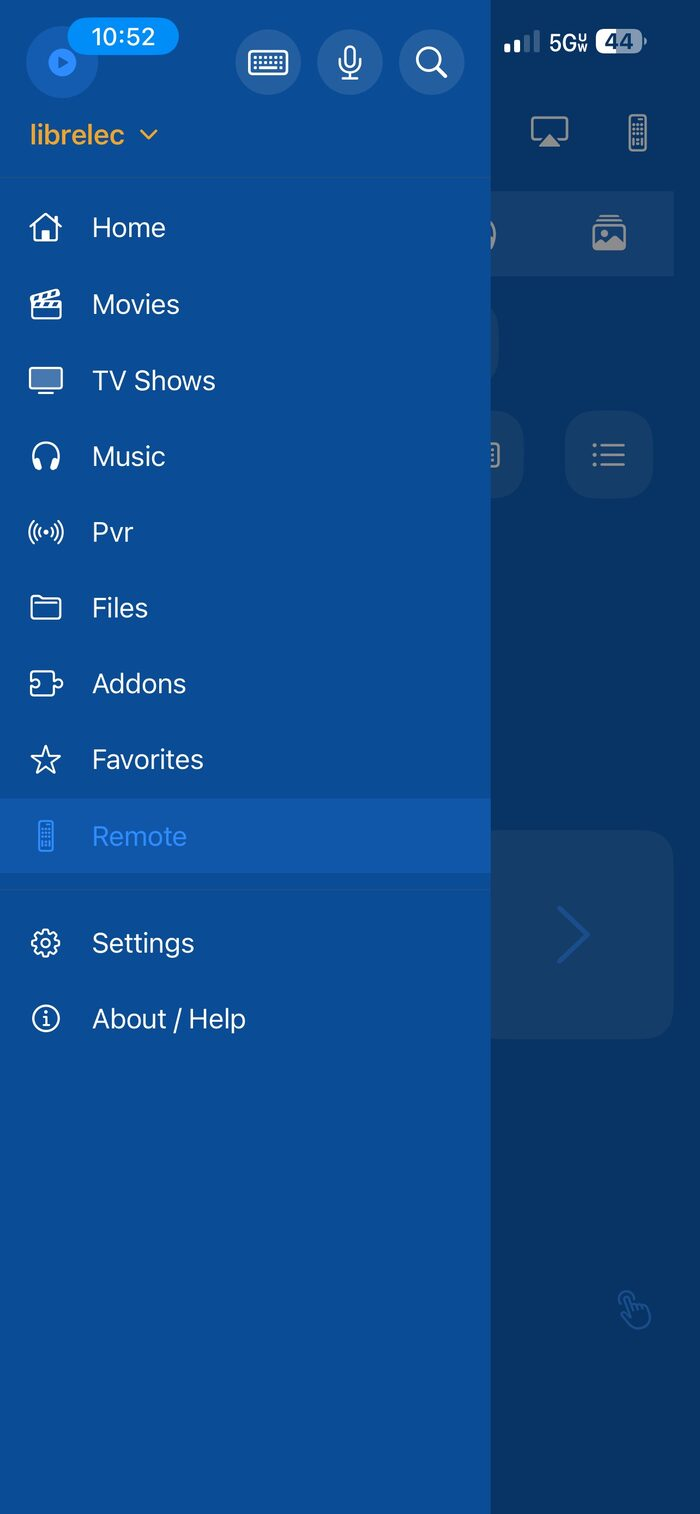
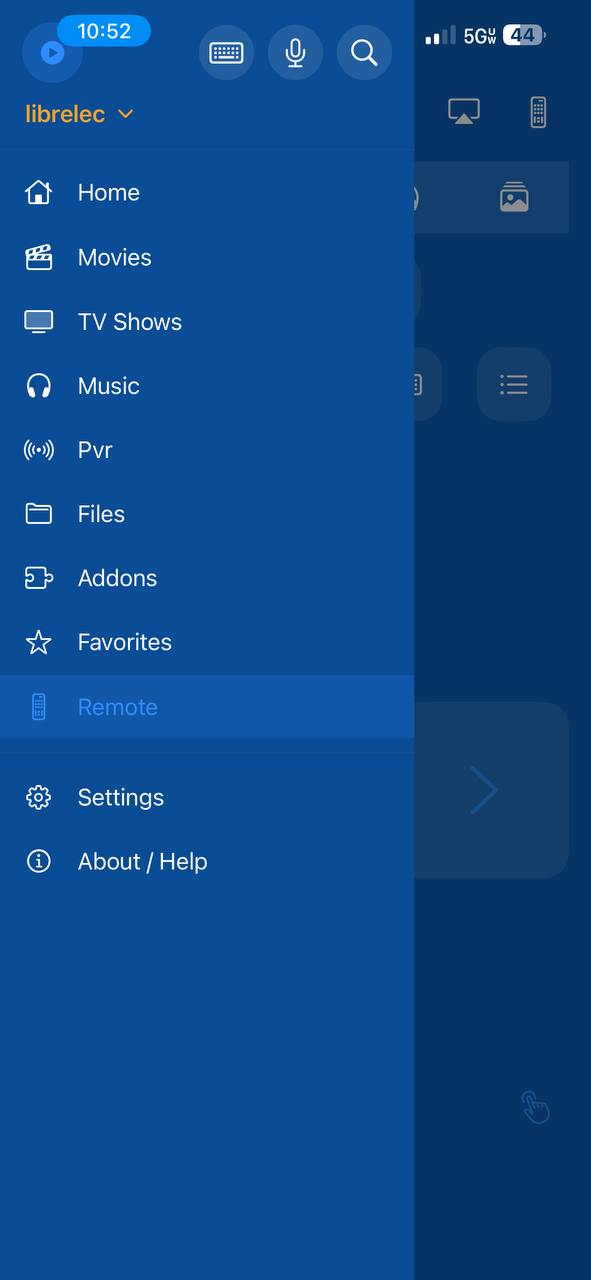
docs: bring the README up to date, and frame the screenshots (#23)
* docs: bring the README up to date, and frame the screenshots

The feature list had drifted from the app: the browse screens are no longer
a mix of two-column grids and lists, the star is gone, favouriting is
long-press only, a browse screen carries a Remote button, and launch
reconnects to the last host.

The screenshots are laid out as a bordered pair with captions rather than
two full-width images stacked, which is both the ask and the reason the
page no longer scrolls past a screenful of image before the feature table.

Their source files stay 700px wide on purpose: that is 2x a ~340pt display
width, so setting the display width gives a crisp retina image. Resizing
the files down would only soften them.

* docs: frame the screenshots in the files, and finish the feature list

The screenshots are re-sent from the device and now framed: rounded corners, a
hairline border and a soft shadow, on transparency. The frame is baked into the
PNGs rather than set in CSS because GitHub strips inline `style=` from README
HTML — checked by rendering this README through `gh api /markdown`, where a
`style="border-radius:…"` came back as `style="max-width:100%"`. `align` and
`width` attributes do survive, which is how the pair sits side by side.

`docs/screenshots/*.jpg` stay as the raw masters (GitHub's copies are
recompressed, so the master is what a re-frame needs) and the framed PNGs are
what the page shows. `scripts/frame-screenshots.sh` is the transform, since the
[…]

diff --git a/README.md b/README.md
@@ -10,28 +10,16 @@
 — an unsigned IPA you re-sign with your own Apple ID. No developer account, no
 App Store, every feature unlocked.
 
-> ## Unofficial — a personal build
->
-> This is **not an official app**, and not an official build of anything. It is one
-> person's project: no company, foundation or upstream project stands behind it, and
-> nobody distributes it but this repository. Every build carries that in its release
-> notes and shows it in the app under **About / Help**.
->
-> It is **not affiliated with, authorised by, sponsored by or endorsed by**:
->
-> - **Team Kodi / the XBMC Foundation.** This is an independent client that speaks
->   Kodi's public JSON-RPC API. No Kodi code, iconography or artwork is included. The
->   Kodi project does not support this app, and bug reports do not belong with them.
-> - **Yatse or its author.** The Android app was studied to learn the *protocol*; its
->   name is used only to say what this was specified from. This is not a port, a fork
->   or a re-release of Yatse, and it contains none of its code, strings or artwork.
-> - **Apple.** No developer account is involved anywhere: the IPA is unsigned and is
->   re-signed on your own device with your own Apple ID.
->
-> "Kodi", "XBMC" and "Yatse" are the trademarks of their respective owners, used here
-> descriptively to say what this app talks to and what it was written against — with
-> no claim to them. If a rights holder objects to any use in this repo, open an issue
-> and it will be changed.
+A Kodi remote for your pocket: it finds your box, remembers it, and hands you the
+library, the playback controls and the remote itself. No account, no server in the
+middle, nothing held back.
+
+> **Unofficial, personal build — not affiliated with Team Kodi, Yatse or Apple.**
+> One person's project: no company, foundation or upstream project stands behind it,
+> and nobody distributes it but this repository. Every build says so in its release
+> notes and in the app under **About / Help**. It contains no Kodi or Yatse code,
+> strings or artwork, and no developer account is involved anywhere — the full
+> statement is under [Trademarks and affiliation](#trademarks-and-affiliation).
 
 A from-scratch SwiftUI remote for Kodi, written against a specification
 reverse-engineered from the **Yatse 12.0.0** Android APK. Clean-room: the
@@ -39,27 +27,31 @@ protocol surface (method names, parameter properties, discovery records, default
 ports) came from static analysis of the shipped artifact; the Swift here is
 original code written from that spec and the public Kodi JSON-RPC v13 docs.
 
-The full reverse-engineering report lives outside this repo with the APK:
-
-```
-~/reverseEngineer/yatse/REPORT.md      # findings, evidence IDs, method tables
-~/reverseEngineer/yatse/probe-evidence.txt   # live Kodi 21.3 payload validation
-```
-
-See [`docs/CLEANROOM.md`](docs/CLEANROOM.md) for what was and was not taken.
-
 ## Screenshots
 
-The Remote. The drawer control stays pinned top-left, including on the screens
-pushed inside a destination, so you can leave a folder for the Remote without
-first going back to the top:
+<table>
+  <tr>
+    <td align="center" width="50%">
+      <a href="docs/screenshots/remote-framed.png"><img src="docs/screenshots/remote-framed.png" width="320" alt="The Remote screen"></a>
+    </td>
+    <td align="center" width="50%">
+      <a href="docs/screenshots/drawer-framed.png"><img src="docs/screenshots/drawer-framed.png" width="320" alt="The drawer open"></a>
+    </td>
+  </tr>
+  <tr>
+    <td align="center"><sub><b>The Remote</b><br>One screen, no tabs: status, shortcuts, volume, the d-pad, and a bare Back arrow.</sub></td>
+    <td align="center"><sub><b>The drawer</b><br>Every destination, with a host header and a switcher. Favorites lives here.</sub></td>
+  </tr>
+</table>
 
-![The Remote screen](docs/screenshots/remote.jpg)
+Tap either one for the full-size image. The pair is side by side rather than stacked
+so the first screenful of this page is still the pitch and the feature list, not two
+full-width phone screenshots.
 
-The drawer. Favorites is a destination, and each destination remembers the place
-you last reached inside it for the session:
-
-![The drawer open](docs/screenshots/drawer.jpg)
+The drawer control stays pinned top-left on the screens pushed inside a destination,
+so you can leave a folder for the Remote without first going back to the top — and
+every browse screen now carries a Remote button of its own, in the toolbar next to the
+layout control.
 
 ## What it does
 
@@ -67,15 +59,20 @@ you last reached inside it for the session:
 |---|---|
 | Hosts | add / edit / delete, Basic auth, password in Keychain, HTTP or HTTPS, Wake-on-LAN (MAC + port) |
 | Discovery | Bonjour `_xbmc-jsonrpc-h._tcp` / `_xbmc-jsonrpc._tcp` |
+| Launch | reconnects to the last host you used; if it has gone or does not answer, the picker comes back with the reason |
 | Now playing | full-screen overlay opened from the mini-player: see-through artwork backdrop, a seek slider with elapsed/duration, and Info |
-| Transport | previous / rewind / play-pause / forward / next / stop in the Now Playing overlay; back, fullscreen, info, keyboard and context tiles on the remote |
+| Transport | previous / rewind / play-pause / forward / next / stop in the Now Playing overlay; fullscreen, info, keyboard and menu tiles on the remote; while a video plays fullscreen the arrow keys seek, and Kodi escalates the jump on its own — 10s → 30s → 1min → 3min → 5min |
 | Streams | audio-stream and subtitle pickers (including subtitles off) and a video-zoom control, in the Now Playing overlay |
-| Shell | host-centric: slide-out drawer (Home, Movies, TV Shows, Music, Pvr, Files, Addons, Favorites, Remote, then Settings and About) with a host header and switcher, and a persistent mini-player while a player is active |
-| Remote | one screen (no tabs): pinned status, shortcut, volume and utility tile rows; a directional pad that fills the screen below them (accent arrows, outlined select), a bare Back control and a touchpad toggle; keyboard text entry; the current item's artwork as a blurred background with translucent tiles while playing |
+| Shell | host-centric: slide-out drawer (Home, Movies, TV Shows, Music, Pvr, Files, Addons, Favorites, Remote, then Settings and About) with a host header and switcher, a persistent mini-player while a player is active, and a Remote button on every browse screen's toolbar |
+| Remote | one screen (no tabs): pinned status, shortcut, volume and utility tile rows; a directional pad that fills the screen below them (accent arrows, outlined select), a bare Back control and a touchpad toggle; keyboard text entry; the current item's artwork as a blurred background with translucent tiles while playing; during fullscreen playback the pad's centre press raises Kodi's on-screen controls instead of selecting |
+| Player info | the far-left utility tile asks Kodi for its process overlay — resolution, video and audio codec, hardware or software decoding — and asks again to close it |
+| Touchpad | swipe to move, tap to select: how far and how fast you swipe decides how far Kodi moves, up to 8 steps from one gesture |
+| Gestures | pull up on the playback bar to open the full player, pull down on it to close; a sideways drag does neither, because that bar is made of buttons you drag across; long press a tile or row to save it as a favourite |
 | Queue | playlist jump / remove / clear, shown in the Now Playing overlay |
-| Library | Movies and TV Shows as a two-column poster grid; Artists → Albums and Episodes as lists; paged at 60 rows, tap to play |
-| Addons | video add-ons only, as a two-column poster grid; tapping one browses the content it exposes on the host, also as a grid; long-press to enable/disable it or save it as a favourite |
-| Favorites | saved places as a two-column poster grid carrying their artwork; saved by long-pressing a folder inside a video add-on, removed by long-pressing the tile |
+| Library | Movies and TV Shows, Artists → Albums, and a show's episodes; paged at 60 rows, tap to play |
+| Layout | one app-wide setting — **2-wide grid, the default**, or 3-wide, 4-wide and a list — switched from any browse screen's toolbar and remembered across launches |
+| Addons | video add-ons only; tapping one browses the content it exposes on the host; long-press to enable/disable it or save it as a favourite |
+| Favorites | saved places carrying their artwork; added and removed by long press only, on a show, artist, add-on, folder or Files source |
 | Status | connection state, server name + version, in-app error surface |
 | Self-check | ordered, read-only, per-layer connection diagnostic with a copyable redacted report and persisted per-host status |
 
@@ -84,14 +81,17 @@ you last reached inside it for the session:
 The app is host-centric. Before a host is chosen it shows the host picker; once
 one is active the root becomes a shell scoped to that host, and player state is
 owned by an app-level `Session` (not by a screen), so playback and the live event
-stream survive moving between destinations.
+stream survive moving between destinations. **At launch it reconnects to the last
+host you used**, so opening the app puts you straight back in the shell for your box
+rather than at a list you have to read.
 
 - **Drawer** — a slide-over list with a host header (name, switcher, keyboard /
   mic / search actions) and the destinations above, Favorites among them.
   Selecting the current host again is a no-op; deleting the active host returns
   the app to the picker. **Each destination remembers the place you last reached
   inside it** for the session, so leaving Addons for the Remote and coming back
-  restores that folder rather than resetting to the top.
+  restores that folder rather than resetting to the top — and a long list also comes
+  back at the row you had scrolled to.
 - **Mini-player** — pinned above every destination while a player is active, with
   a thumbnail, the title, and stop / play-pause / next. Tapping it opens the
   Now Playing overlay.
@@ -100,22 +100,36 @@ stream survive moving between destinations.
   play-pause / forward / next / stop, repeat and shuffle, Info, audio and subtitle
   pickers (subtitles can be turned off), a video-zoom control, and the queue.
 - **Remote** — a single screen with no tabs that does not scroll: the app bar, the
-  shortcut strip (Home, Movies, TV Shows, Music, Pictures), volume and utility
-  tiles, then a directional pad that fills every point left on the screen, with a
-  bare Back arrow and a touchpad toggle beneath it. While something plays, the
-  item's artwork is the blurred background and the tiles turn translucent.
-- **Library** — Movies and TV Shows browse as a two-column poster grid; Artists
-  and Albums, and a show's episodes, browse as lists.
+  shortcut strip (Home, Movies, TV Shows, Music, Pictures), the volume tiles, the
+  utility row (player info, fullscreen, info, keyboard, menu), then a directional pad
+  that fills every point left on the screen, with a bare Back arrow and a touchpad
+  toggle beneath it. While something plays, the item's artwork is the blurred
+  background and the tiles turn translucent. **While a video plays fullscreen the pad
+  changes job**: the arrows seek, and the centre press raises Kodi's on-screen
+  controls, because that is what a video wants — moving a highlight is for menus.
+  The far-left utility tile is the player-info overlay (resolution, codecs, and
+  whether decoding is hardware or software); inside fullscreen playback it is what
+  you reach for instead of guessing why a file stutters.
+- **Library** — Movies and TV Shows, Artists → Albums, and a show's episodes.
+- **Layout** — one app-wide setting rather than a per-screen one, because these are
+  all the same kind of screen: **2-wide grid (the default)**, 3-wide, 4-wide, or a
+  list. It is switched from the toolbar of any browse screen, applies to every one
+  of them, and is remembered across launches. Tiles give up their detail line as they
+  get denser, so four across stays readable.
 - **Addons** — the video add-ons installed on the host, as a poster grid. Tapping
   one browses the content it exposes at `plugin://<addonid>/`, presented the same
-  way (add-on content is a grid, a filesystem folder stays a list). A long press
-  offers enabling/disabling the add-on and saving it as a favourite.
-- **Favorites** — the places you saved, as a poster grid with their artwork. A
-  favourite is added by long-pressing a folder inside a video add-on, and removed
-  by long-pressing its tile. The drawer no longer lists one row per favourite.
-- **Not on every screen** — the drawer control is on the destinations and on the
-  screens pushed inside them, so you can leave a folder for the Remote without
-  first going back to the top.
+  way. A long press offers enabling/disabling the add-on and saving it as a
+  favourite.
+- **Favorites** — the places you saved, carrying their artwork. **A favourite is
+  added and removed by long press only**: long-press a show, artist, add-on, folder
+  or Files source to save it, long-press its tile to remove it. A file is never
+  offered, because a favourite names a place you can come back to. The drawer no
+  longer lists one row per favourite.
+- **Return to the Remote** — a Remote button sits in every browse screen's toolbar,
+  immediately left of the layout control, so the Remote is one tap away instead of a
+  trip through the drawer. It takes the same path the drawer row does, so the folder
+  you were in is still remembered when you come back to it. The drawer control itself
+  stays on the destinations and on the screens pushed inside them.
 - **Not implemented** — Pvr shows a placeholder naming the destination rather than
   a dead end.
 
@@ -282,6 +296,14 @@ ports — facts about an interface, not creative expression.
 No Yatse code, resources, strings or artwork are used, and no decompiled body was
 ever copied. "Yatse" is the name of the Android app this was specified from, not
 the name of this project.
+
+The artifacts that specification came out of live with the APK on a development
+host, not in this repo:
+
+```
+~/reverseEngineer/yatse/REPORT.md            # findings, evidence IDs, method tables
+~/reverseEngineer/yatse/probe-evidence.txt   # live Kodi 21.3 payload validation
+```
 
 ### Trademarks and affiliation
 
